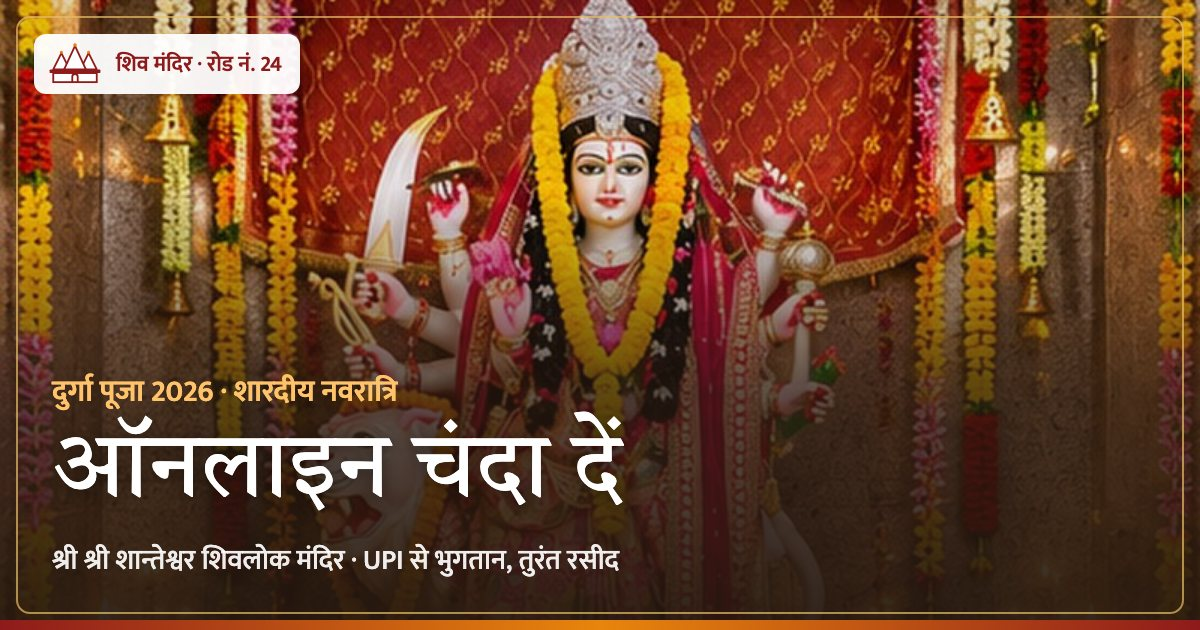
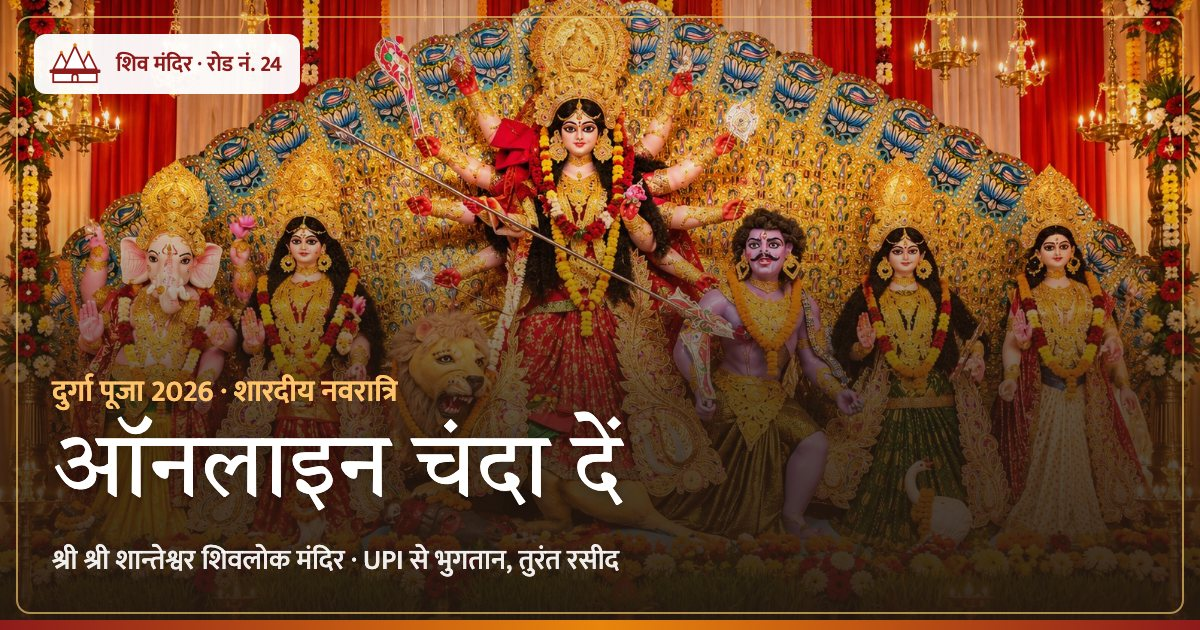
Use the mandir's Durga Puja 2026 tableau for the festival appeal
Home page appeal card and the chanda share image now show the pandal photo;
the Maa Durga deity photo is unchanged.

diff --git a/src/app/page.tsx b/src/app/page.tsx
@@ -73,9 +73,15 @@ export default function Home() {
 
       {ABHIYAN.active && (
         <section className="wrap mt-14" aria-labelledby="abhiyan-title">
-          <div className="grid md:grid-cols-[1fr_1.1fr] rounded-2xl overflow-hidden border-2 border-gold/60 bg-card shadow-[0_12px_32px_rgba(142,27,27,0.10)]">
-            <div className="relative min-h-[15rem]">
-              <Image src="/images/deities/durga.jpg" alt="माँ दुर्गा" fill sizes="(min-width: 768px) 50vw, 100vw" className="object-cover object-top" />
+          <div className="grid md:grid-cols-[1.3fr_1fr] rounded-2xl overflow-hidden border-2 border-gold/60 bg-card shadow-[0_12px_32px_rgba(142,27,27,0.10)]">
+            <div className="relative aspect-[8/5] md:aspect-auto md:min-h-[22rem]">
+              <Image
+                src="/images/durga-puja-2026.jpg"
+                alt="दुर्गा पूजा 2026: माँ दुर्गा, गणेश जी, लक्ष्मी जी, सरस्वती जी, कार्तिकेय जी और महिषासुर की प्रतिमा"
+                fill
+                sizes="(min-width: 768px) 58vw, 100vw"
+                className="object-cover object-center"
+              />
             </div>
             <div className="p-6 md:p-9 grid gap-4 content-center bg-[linear-gradient(135deg,#fff,#fdf1df)]">
               <span className="inline-flex w-fit items-center gap-2 px-3 py-1 rounded-full bg-maroon text-white text-[0.9rem] font-semibold">
